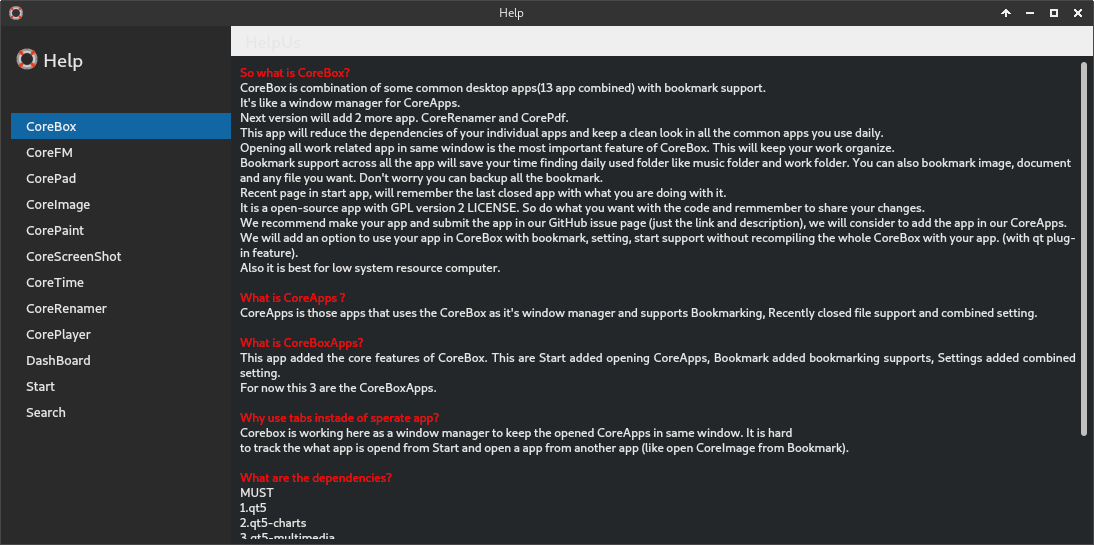
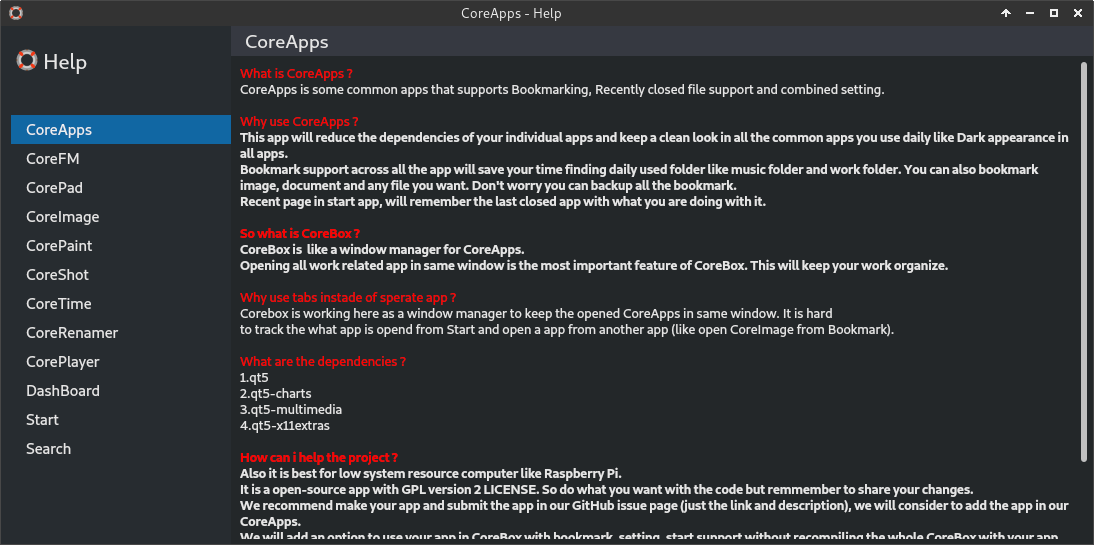
Updated lib

diff --git a/help.cpp b/help.cpp
@@ -23,14 +23,14 @@ help::help(QWidget *parent) :QWidget(parent),ui(new Ui::help)
     ui->setupUi(this);
 
     // set stylesheet from style.qrc
-    setStyleSheet(Utilities::getStylesheetFileContent(Utilities::StyleAppName::HelpStyle));
+    setStyleSheet(CPrime::ThemeFunc::getStyleSheetFileContent(CPrime::StyleTypeName::HelpStyle));
 
     // set window size
-    int x = static_cast<int>(Utilities::screensize().width()  * .8);
-    int y = static_cast<int>(Utilities::screensize().height()  * .7);
+    int x = static_cast<int>(CPrime::InfoFunc::screenSize().width()  * .8);
+    int y = static_cast<int>(CPrime::InfoFunc::screenSize().height()  * .7);
     this->resize(x, y);
 
-    on_corebox_clicked();
+    on_coreapps_clicked();
 }
 
 help::~help()
@@ -104,7 +104,7 @@ void help::on_corefm_clicked()
     pageClick(ui->corefm,1, tr("CoreFM"));
 }
 
-void help::on_corebox_clicked()
+void help::on_coreapps_clicked()
 {
-    pageClick(ui->corebox,0, tr("CoreBox"));
+    pageClick(ui->coreapps,0, tr("CoreApps"));
 }

diff --git a/help.h b/help.h
@@ -22,7 +22,7 @@ along with this program; if not, see {http://www.gnu.org/licenses/}. */
 #include <QTextStream>
 #include <QFile>
 
-#include <cprime/utilities.h>
+#include <cprime/themefunc.h>
 
 
 namespace Ui {
@@ -50,7 +50,7 @@ private slots:
     void on_coreimage_clicked();
     void on_corepad_clicked();
     void on_corefm_clicked();
-    void on_corebox_clicked();
+    void on_coreapps_clicked();
 
 private:
     Ui::help *ui;

diff --git a/main.cpp b/main.cpp
@@ -20,7 +20,6 @@ along with this program; if not, see {http://www.gnu.org/licenses/}. */
 #include <QFont>
 #include <QStyleFactory>
 
-#include <cprime/utilities.h>
 #include <cprime/settingsmanage.h>
 
 
